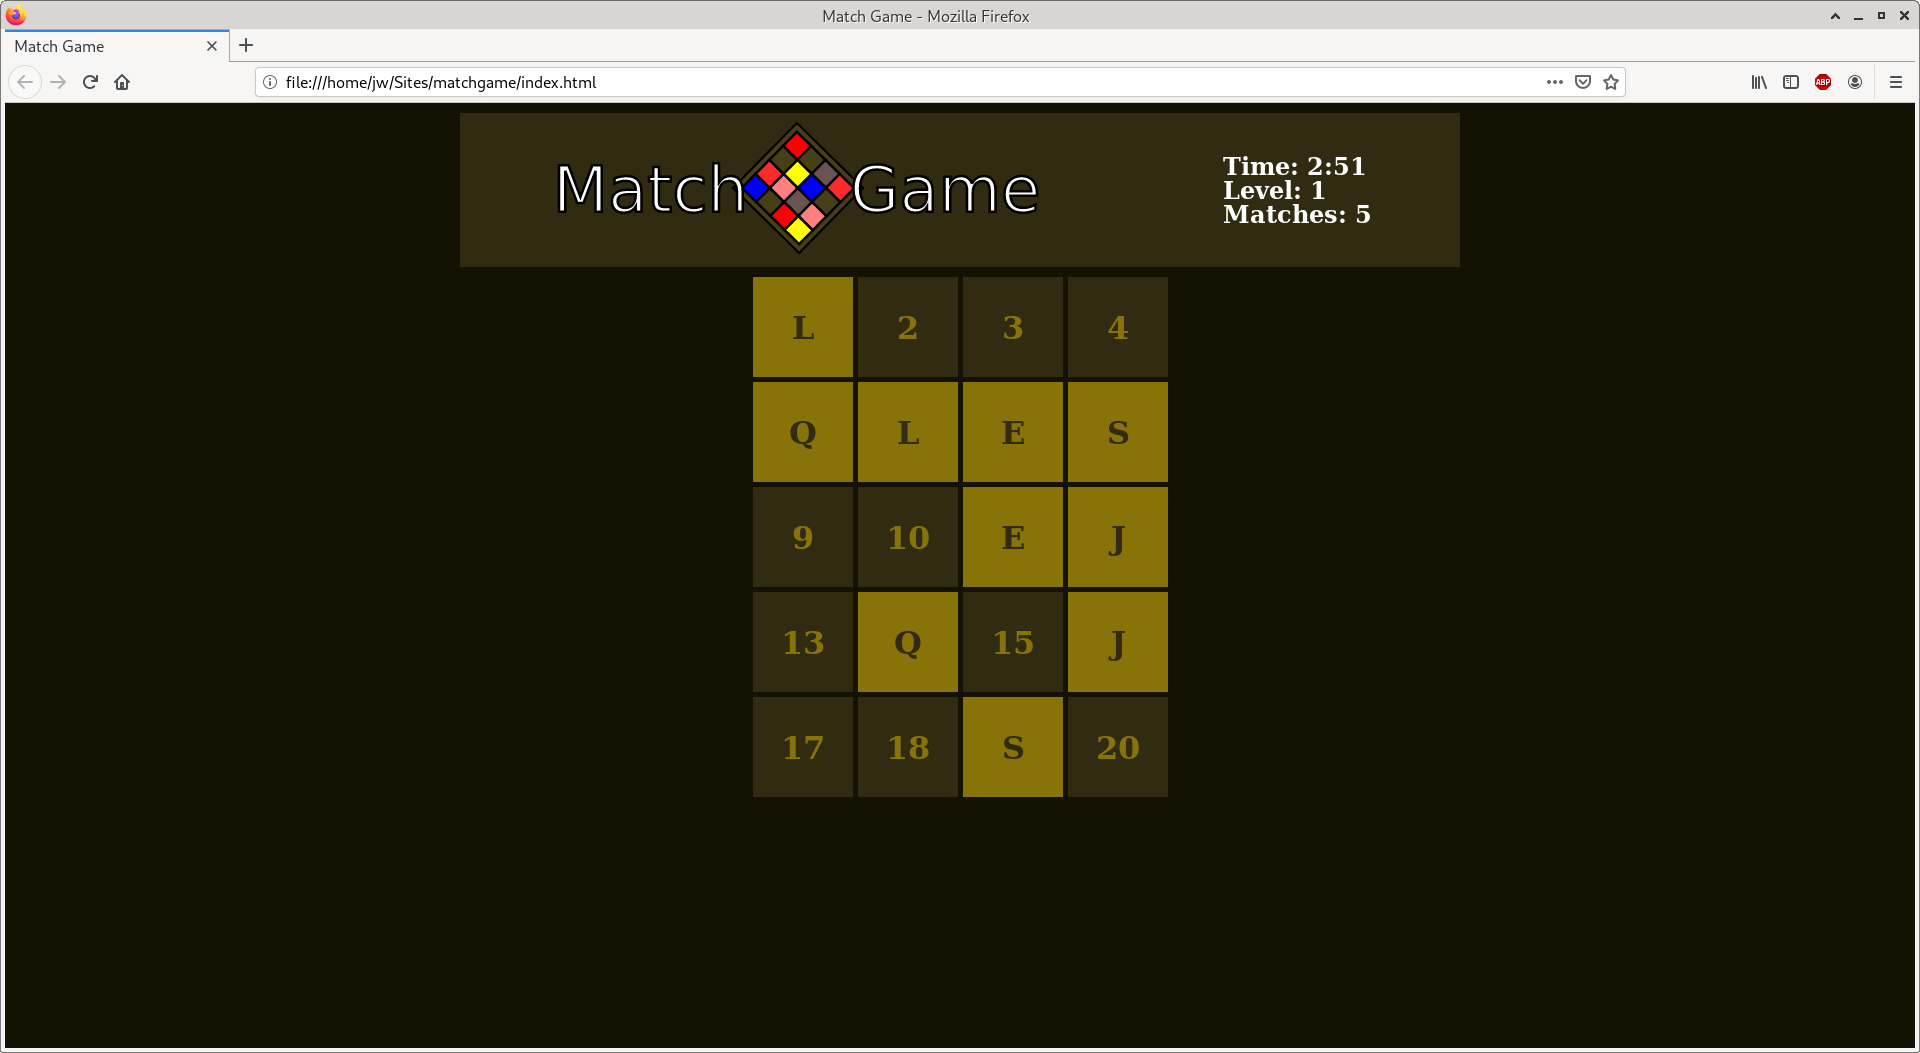
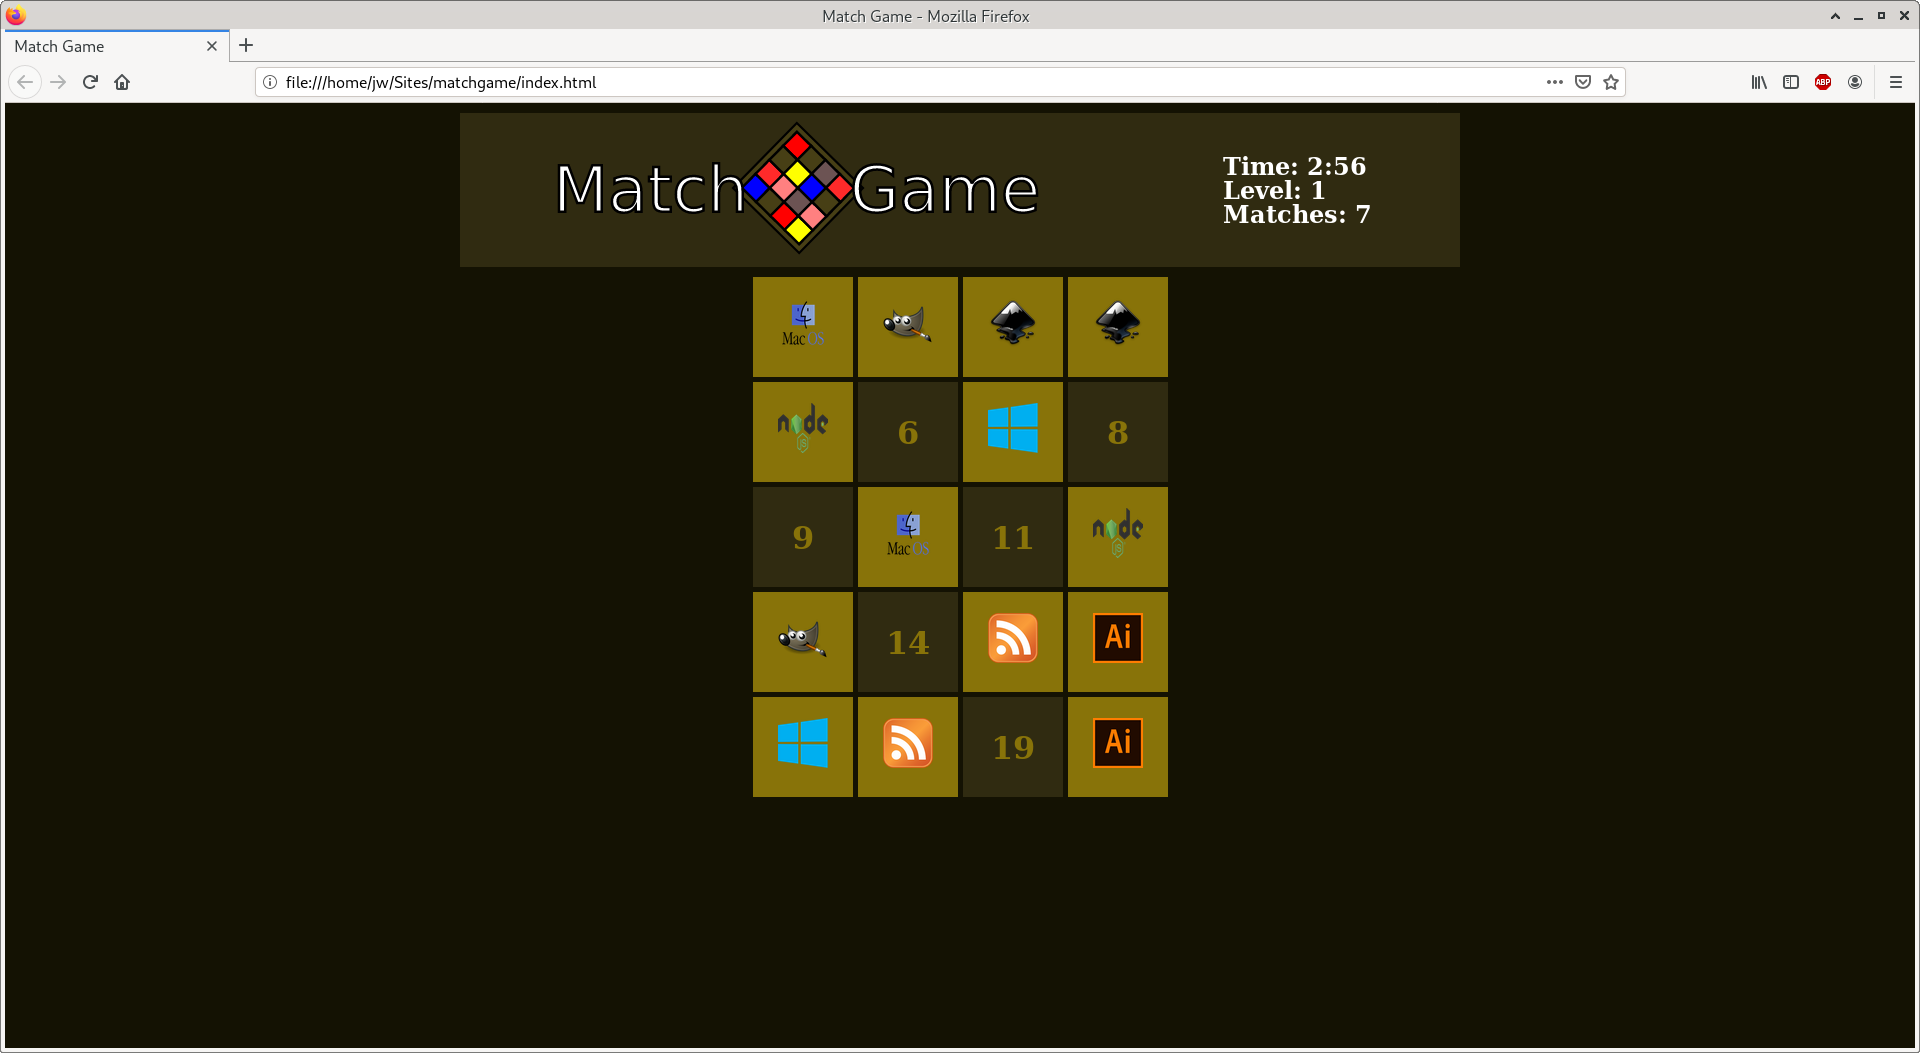
Added first image based theme, technology

Changed region(s): [[0.375, 0.2431, 0.625, 0.7597]]

diff --git a/index.js b/index.js
@@ -1,5 +1,5 @@
 const levels = [300, 270, 240, 210, 180, 150, 120, 90, 60, 30]; // 10 levels in 30 second decrements
-const themes = ["Colors", "Alpha", "Alphanumeric"];
+const themes = ["Colors", "Alpha", "Alphanumeric", "Technology"];
 const board = document.querySelector("#board");
 const options = document.querySelector("#options");
 const msg = document.querySelector("#msg");
@@ -74,6 +74,11 @@ function newGame() {
                 choices.push(i.toString());
             }
             break;
+        case 3: // Technology
+            for (i = 1; i < 33; i++) {
+                choices.push("themes/Technology/" + i.toString() + ".png");
+            }
+            break;
         default:
             // placeholder for future themes
     }
@@ -137,8 +142,8 @@ function clickPiece(e) {
             case 2: // Alphanumeric
                 span.innerText = div.getAttribute("value");
                 break;
-            default:
-                // placeholder for future themes
+            default: // Technology
+                span.innerHTML = "<img src='" + div.getAttribute("value") + "' width='50px' height='50px'>";
         }
 
         if (choice === "" || choice === undefined) {

diff --git a/README.md b/README.md
@@ -1,10 +1,8 @@
 # Match Game
 
-An experimental game I'm building in vanilla HTML, CSS, and Javascript while learning front end web development. A playable version (1.0) is now available! [Play it now](https://jsnwte.github.io/matchgame).
+An experimental game I'm building in vanilla HTML, CSS, and Javascript while learning front end web development. A playable version is available! [Play it now](https://jsnwte.github.io/matchgame).
 
-This match game has different themes to choose from with 10 levels that become increasingly short in game duration. For 2.0 I'm working on adding additional themes such as the logos of several technologies I'm learning or find interesting.
-
-If you were to build such a game, what would your favorite theme be?
+This match game has different themes to choose from with 10 levels that become increasingly short in game duration. If you were to build such a game, what would your favorite theme be?
 
 Check back to see updates as they are published.
 
